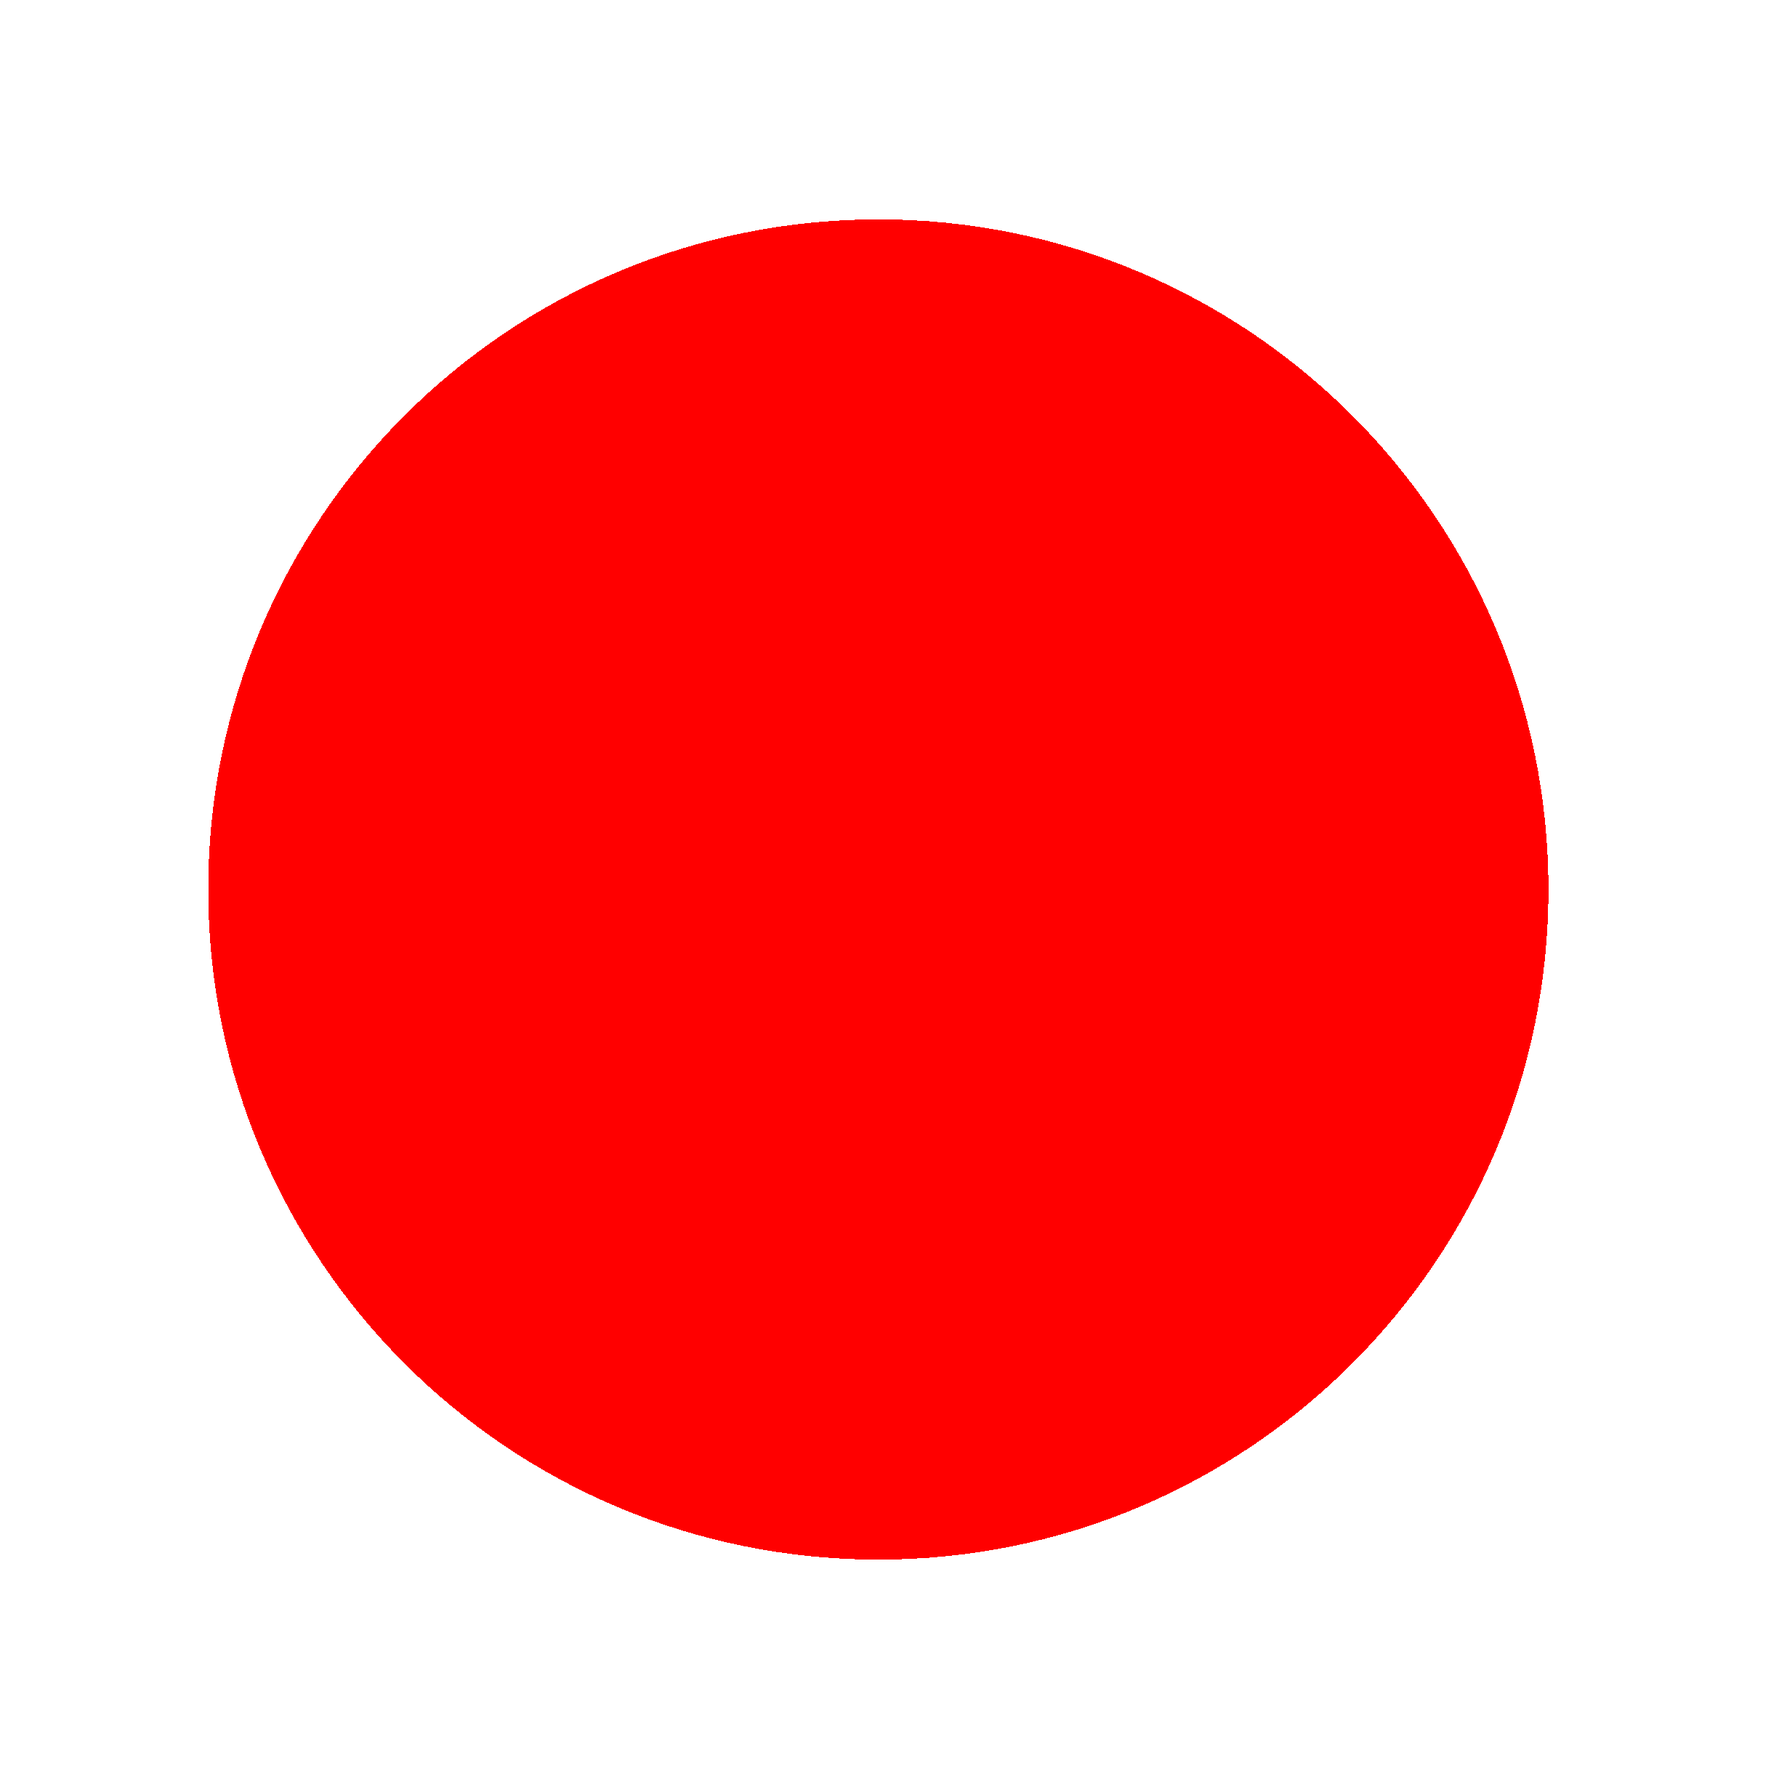
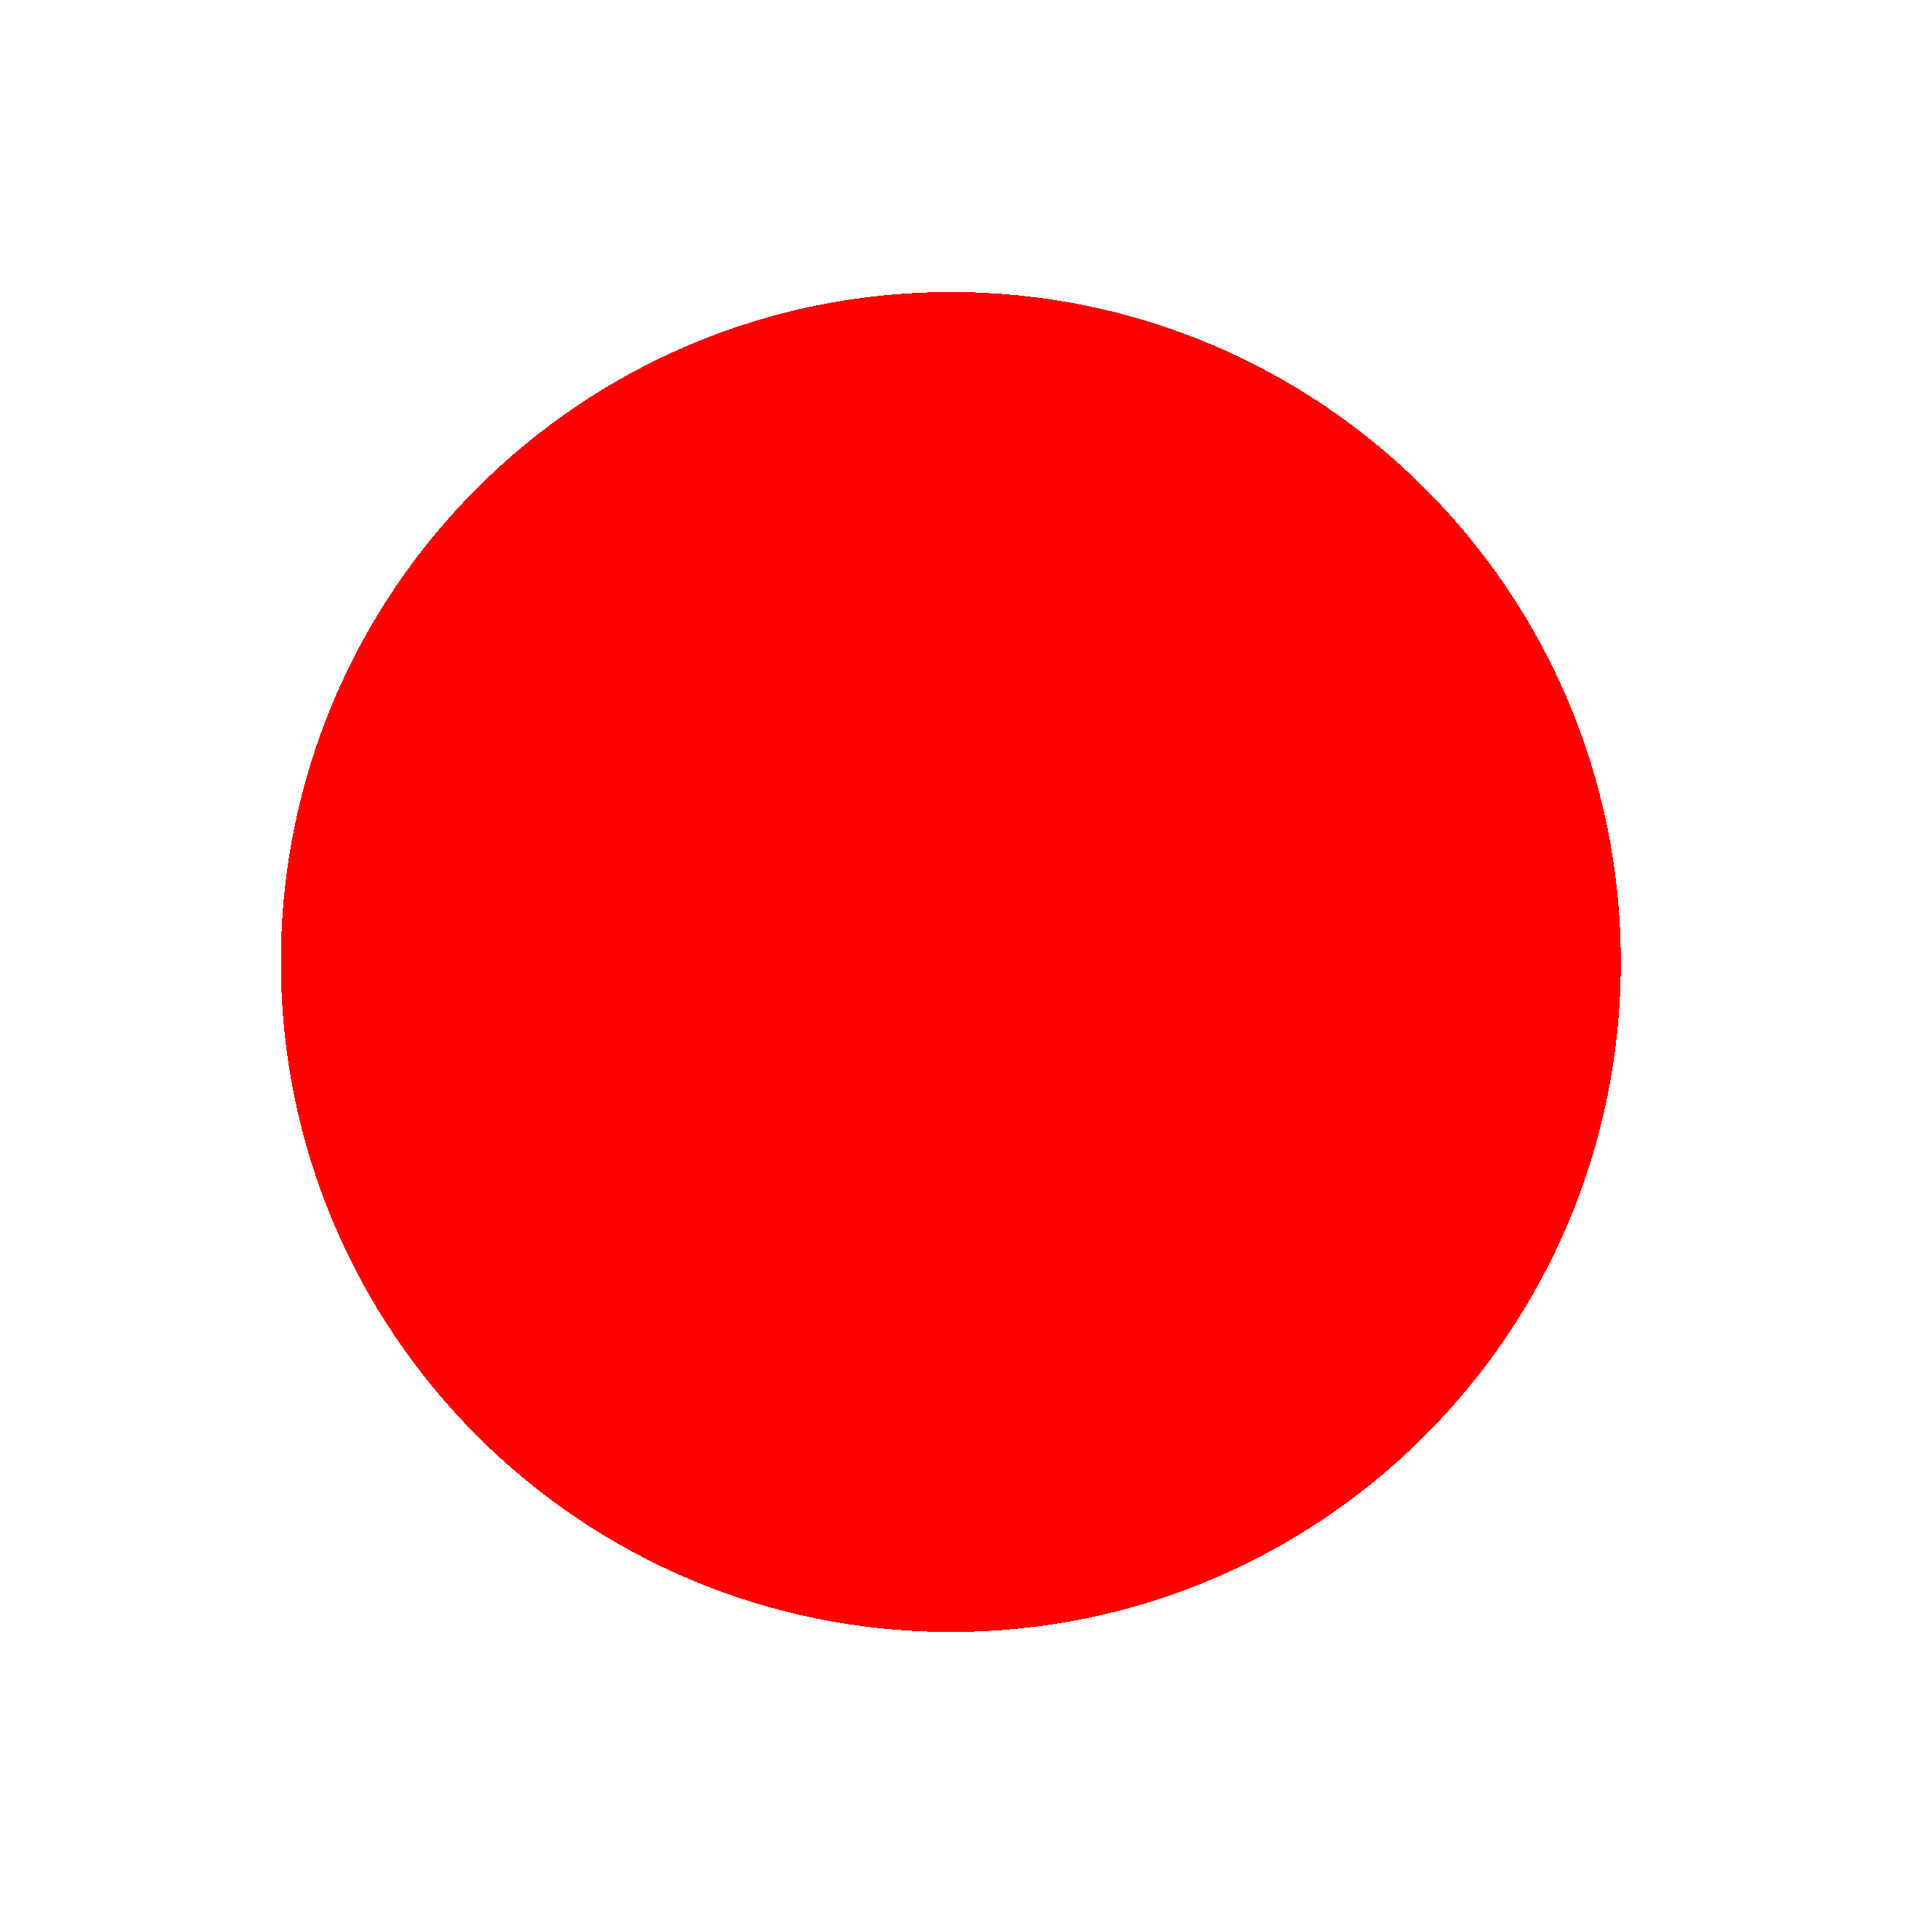
new readme

Changed region(s): [[0.0931, 0.1242, 0.8693, 0.9003]]

diff --git a/tools/add-transparent-border.py b/tools/add-transparent-border.py
@@ -20,7 +20,7 @@ def add_transparent_border(input_image_path, output_image_path, border_size):
 def main():
     input_image_path = "../media/icon_normal.png"
     output_image_path = "../media/icon_smaller.png"
-    border_size = 200 #pixels
+    border_size = 300 #pixels
     add_transparent_border(input_image_path, output_image_path, border_size)
     print("Images generated successfully!")
 

diff --git a/README.md b/README.md
@@ -13,6 +13,12 @@ These scripts utilize the Python Imaging Library (PIL) to perform image manipula
 ### `add-transparent-border.py`
 This script adds a transparent border around an original input image, which is useful for displaying a favicon icon smaller on a browser tab.
 
+<p align="center">
+  <img src="media/examples/example1.png" alt="">
+  <br>
+  <em>Example of an icon shrunken using the add-transparent-border script</em>
+</p>
+
 #### Usage
 1. Place your input image (e.g., `icon.png`) in the same directory as the script.
 2. Set the desired border size in pixels (default is 200 pixels).
@@ -22,6 +28,12 @@ This script adds a transparent border around an original input image, which is u
 ## Changing The Color of a PNG Favicon
 ### `change-non-transparent-pixels.py`
 This script changes non-transparent pixels in a PNG image to a specified color.
+
+<p align="center">
+  <img src="media/examples/example2.png" alt="">
+  <br>
+  <em>Example of a recolored icon using the change-non-transparent-pixels script</em>
+</p>
 
 #### Usage
 1. Place your input image (e.g., `icon3.png`) in the same directory as the script.
@@ -35,6 +47,12 @@ This script changes non-transparent pixels in a PNG image to a specified color.
 ## Basic Favicon Generation
 ### `generate-shapes.py`
 This script generates square and triangle images based on an input circle image, using the circle's radius and color.
+
+<p align="center">
+  <img src="media/examples/example3.png" alt="">
+  <br>
+  <em>Example of generated favicons using the generate-shapes script</em>
+</p>
 
 #### Usage
 1. Place your input circle image (e.g., `circle.png`) in the same directory as the script.
